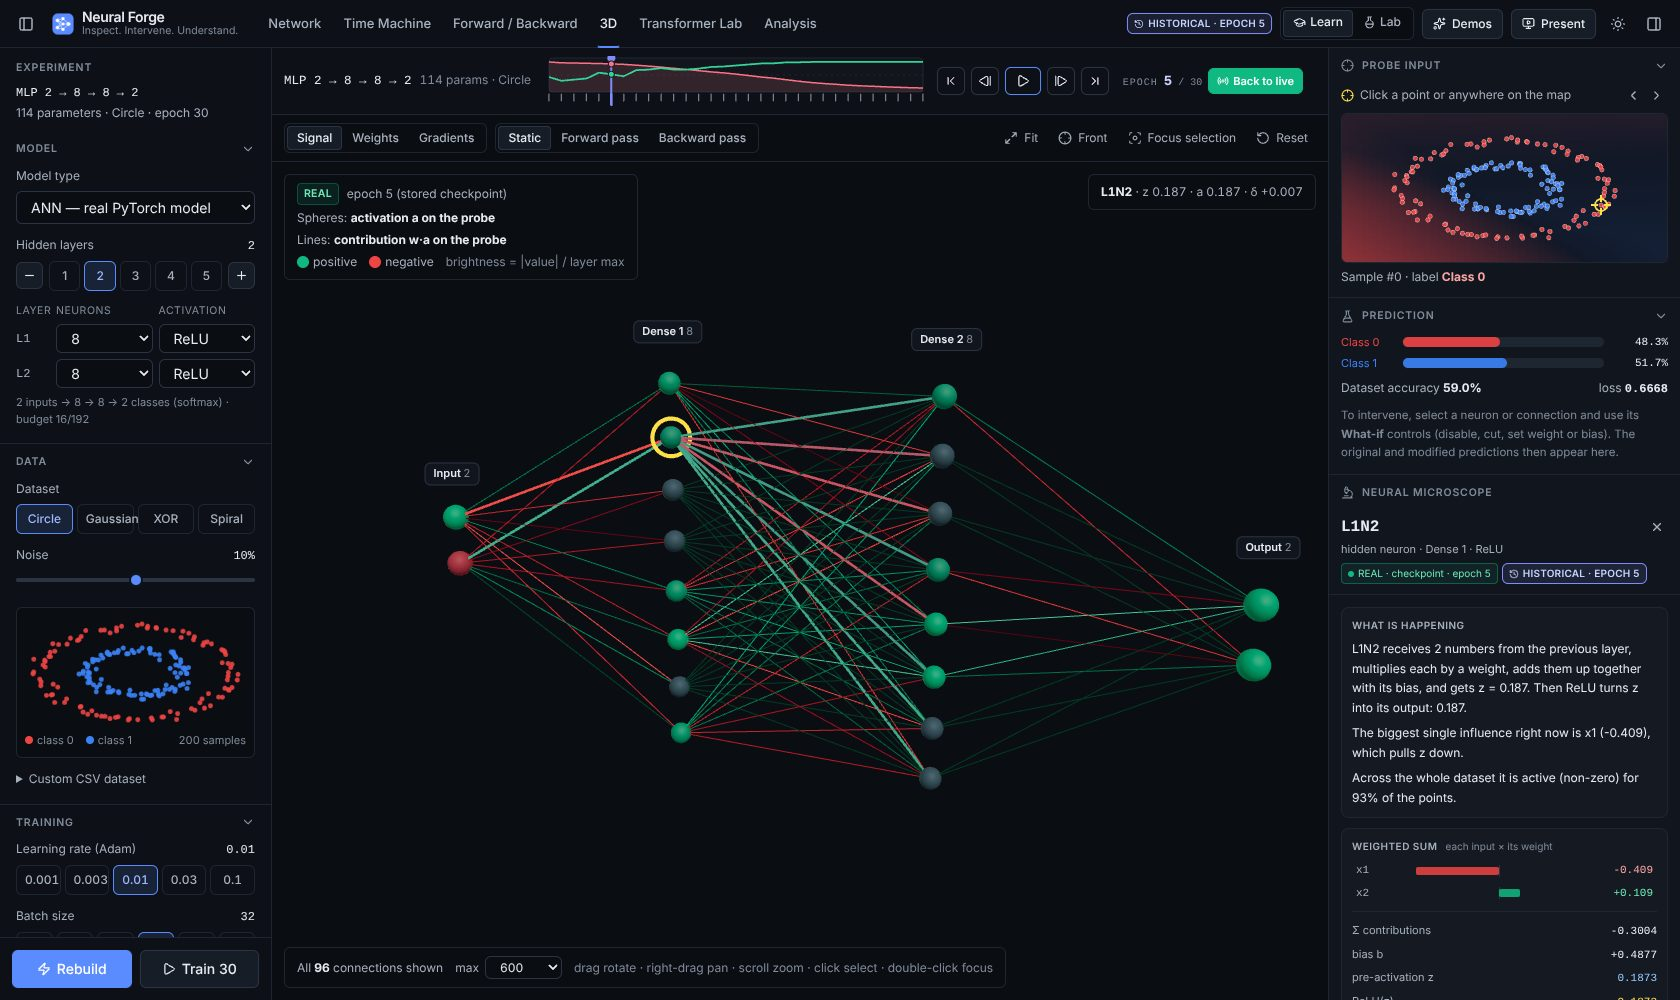
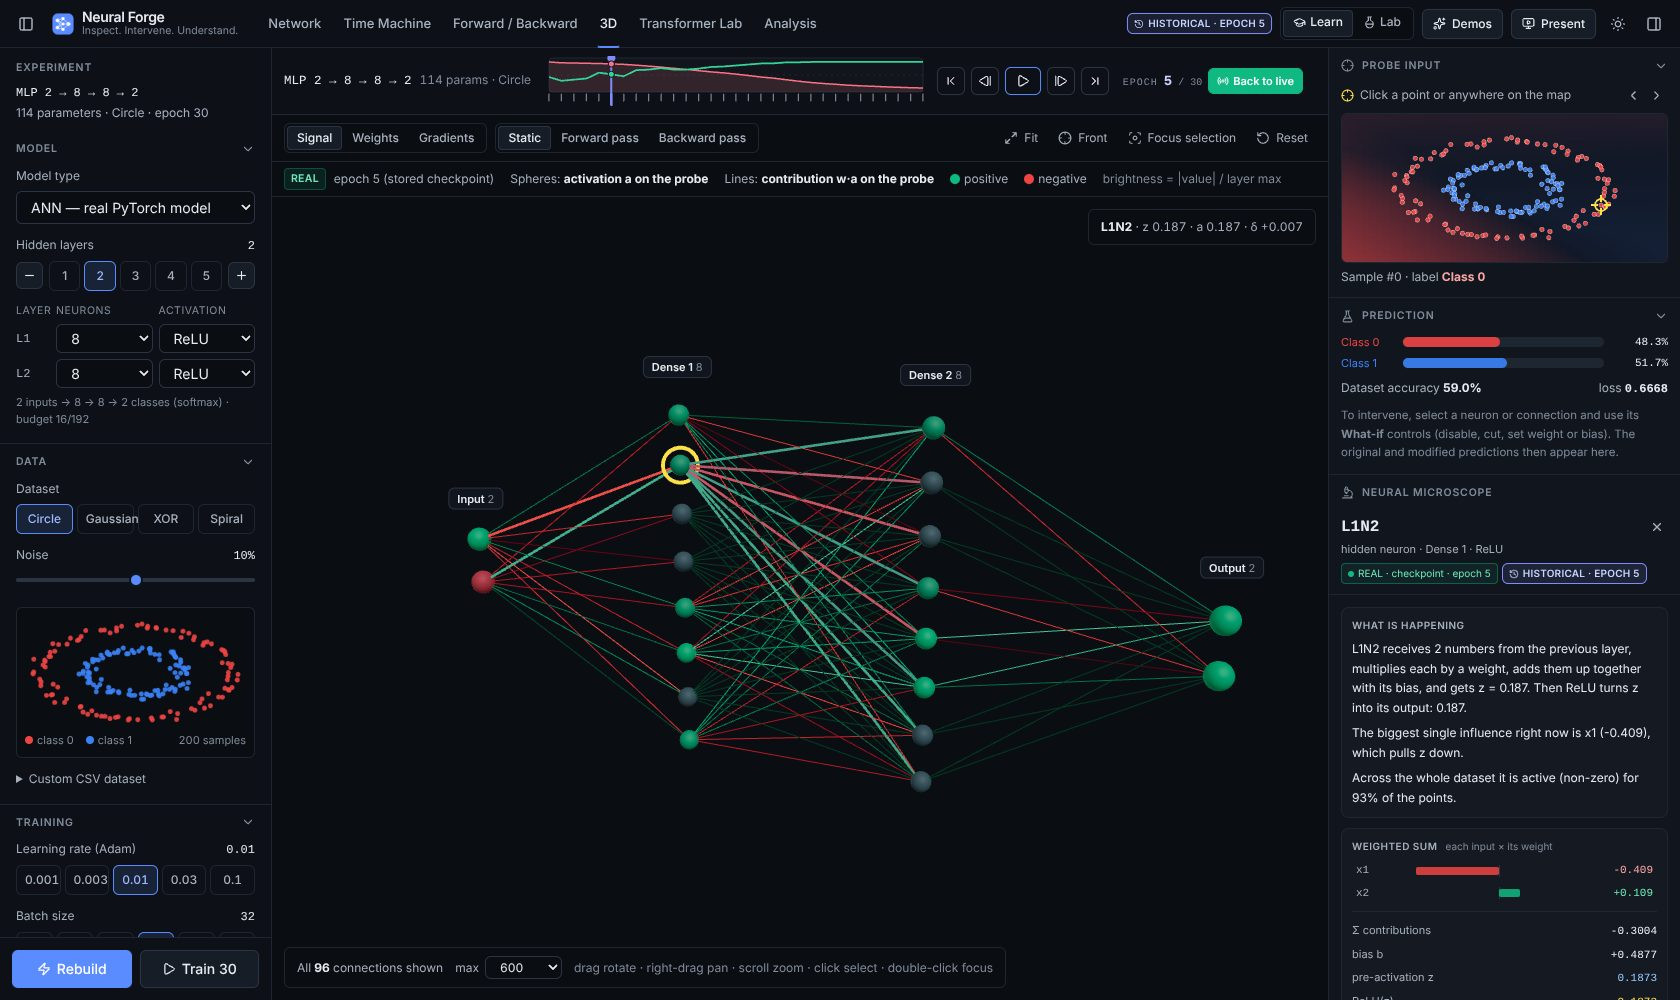
Final visual review fixes
- 3D: camera fit uses the real canvas aspect ratio (the network was clipped
  on narrow views); legend moved from an overlay into a bar so it never
  covers layer labels; refit when the view's aspect changes.
- Training curves: straight segments between logged epochs (the spline
  drew values between epochs that were never measured); theme-aware axes,
  grid and legend for the Paper theme.
- Weight histograms: drawn at the displayed size (legible labels), legend
  corrected (positive bars use the source layer's colour).
- Regenerated docs/screenshots.

Claude-Session: https://claude.ai/code/session_01F1MstGZJQBuY9L2sQxMf3S

Changed region(s): [[0.2476, 0.31, 0.7738, 0.806], [0.1548, 0.155, 0.7738, 0.279], [0.7429, 0.527, 0.7738, 0.558]]

diff --git a/frontend/src/components/Forge/ThreeD/Forge3DView.tsx b/frontend/src/components/Forge/ThreeD/Forge3DView.tsx
@@ -12,6 +12,7 @@ import {
 } from '../../../forge/scene3d';
 import { useForgeStore } from '../../../forge/store';
 import { NeedsModel } from '../../Workspaces/EmptyState';
+import { useElementSize } from '../hooks';
 import { ModelStrip } from '../../Workspaces/NetworkWorkspace';
 import { Scene, type CameraGoal, type Hover, type Palette } from './Scene';
 
@@ -68,6 +69,8 @@ export function Forge3DView() {
   const [limit, setLimit] = useState(600);
   const [pass, setPass] = useState<PassMode>('off');
   const [hover, setHover] = useState<Hover | null>(null);
+  const [viewRef, viewSize] = useElementSize<HTMLDivElement>({ w: 900, h: 600 });
+  const aspect = viewSize.w / Math.max(1, viewSize.h);
 
   const sizes = useMemo(() => session?.structure.layers.map((l) => l.size) ?? [], [session]);
   const layout = useMemo(() => layoutNetwork(sizes.length ? sizes : [1]), [sizes]);
@@ -96,24 +99,24 @@ export function Forge3DView() {
 
   // Camera goals.
   const fitGoal = useCallback((key: number): CameraGoal => {
-    const dist = fitDistance(layout.radius, FOV);
+    const dist = fitDistance(layout.radius, FOV, aspect);
     const dir = new THREE.Vector3(0.42, 0.32, 1).normalize().multiplyScalar(dist);
     const c = layout.center;
     return { position: [c[0] + dir.x, c[1] + dir.y, c[2] + dir.z], target: c, key };
-  }, [layout]);
+  }, [layout, aspect]);
   const [goal, setGoal] = useState<CameraGoal>(() => fitGoal(0));
   // A new architecture: re-fit the camera (derived state, updated during render).
-  const [fittedFor, setFittedFor] = useState(layout);
-  if (fittedFor !== layout) {
-    setFittedFor(layout);
+  const [fittedFor, setFittedFor] = useState({ layout, aspect });
+  if (fittedFor.layout !== layout || Math.abs(fittedFor.aspect - aspect) > 0.15) {
+    setFittedFor({ layout, aspect });
     setGoal(fitGoal(goal.key + 1));
   }
 
   const focusOn = useCallback((target: Vec3, radius: number) => {
-    const dist = Math.max(4.5, fitDistance(radius, FOV) * 1.15);
+    const dist = Math.max(4.5, fitDistance(radius, FOV, aspect) * 1.15);
     const dir = new THREE.Vector3(0.55, 0.3, 1).normalize().multiplyScalar(dist);
     setGoal((g) => ({ position: [target[0] + dir.x, target[1] + dir.y, target[2] + dir.z], target, key: g.key + 1 }));
-  }, []);
+  }, [aspect]);
   const focusLayer = useCallback((g: number) => {
     const e = layout.extents[g];
     focusOn([layout.layerX[g], layout.center[1], layout.center[2]], Math.max(1.5, Math.hypot(e.y, e.z) + 0.8));
@@ -129,7 +132,7 @@ export function Forge3DView() {
     }
   }, [selection, layout, focusOn, focusLayer]);
   const frontView = () => {
-    const dist = fitDistance(layout.radius, FOV);
+    const dist = fitDistance(layout.radius, FOV, aspect);
     setGoal((g) => ({ position: [layout.center[0], layout.center[1], layout.center[2] + dist], target: layout.center, key: g.key + 1 }));
   };
 
@@ -195,7 +198,20 @@ export function Forge3DView() {
         </div>
       </div>
 
-      <div className="flex-1 min-h-0 relative" data-testid="forge-3d">
+      <div className="flex items-center gap-x-4 gap-y-1 flex-wrap px-3 py-1.5 border-b text-[12px] flex-shrink-0" style={{ borderColor: 'var(--border)', color: 'var(--text-muted)' }} data-testid="3d-legend">
+        <span className="flex items-center gap-2">
+          <span className="badge-green">REAL</span>
+          <span>epoch {trace?.provenance.checkpoint_epoch ?? '…'}{trace && !trace.provenance.is_latest ? ' (stored checkpoint)' : ' (live)'}{nIv ? ` · what-if ×${nIv}` : ''}</span>
+        </span>
+        <span>Spheres: <b style={{ color: 'var(--text-primary)' }}>{info.node}</b></span>
+        <span>Lines: <b style={{ color: 'var(--text-primary)' }}>{info.edge}</b></span>
+        <span className="flex items-center gap-1"><span className="inline-block w-2.5 h-2.5 rounded-full" style={{ background: 'var(--pos)' }} />positive</span>
+        <span className="flex items-center gap-1"><span className="inline-block w-2.5 h-2.5 rounded-full" style={{ background: 'var(--neg)' }} />negative</span>
+        <span style={{ color: 'var(--text-faint)' }}>brightness = |value| / layer max</span>
+        {ablated.size > 0 && <span style={{ color: 'var(--text-warn)' }}>orange ring = disabled by what-if</span>}
+      </div>
+
+      <div className="flex-1 min-h-0 relative" data-testid="forge-3d" ref={viewRef}>
         {trace && (
           <Canvas camera={{ fov: FOV, position: goal.position, near: 0.1, far: 1000 }} dpr={[1, 2]}
             raycaster={{ params: { Line: { threshold: 0.12 } } as THREE.Raycaster['params'] }}
@@ -212,21 +228,6 @@ export function Forge3DView() {
             {hoverText}
           </div>
         )}
-
-        <div className="overlay absolute top-3 left-3 px-3 py-2 text-[12px] space-y-1 max-w-[360px]" style={{ color: 'var(--text-muted)' }}>
-          <div className="flex items-center gap-2">
-            <span className="badge-green">REAL</span>
-            <span>epoch {trace?.provenance.checkpoint_epoch ?? '…'}{trace && !trace.provenance.is_latest ? ' (stored checkpoint)' : ' (live)'}{nIv ? ` · what-if ×${nIv}` : ''}</span>
-          </div>
-          <div>Spheres: <b style={{ color: 'var(--text-primary)' }}>{info.node}</b></div>
-          <div>Lines: <b style={{ color: 'var(--text-primary)' }}>{info.edge}</b></div>
-          <div className="flex items-center gap-3">
-            <span className="flex items-center gap-1"><span className="inline-block w-3 h-3 rounded-full" style={{ background: 'var(--pos)' }} />positive</span>
-            <span className="flex items-center gap-1"><span className="inline-block w-3 h-3 rounded-full" style={{ background: 'var(--neg)' }} />negative</span>
-            <span style={{ color: 'var(--text-faint)' }}>brightness = |value| / layer max</span>
-          </div>
-          {ablated.size > 0 && <div style={{ color: 'var(--text-warn)' }}>Orange ring = neuron disabled by what-if</div>}
-        </div>
 
         <div className="overlay absolute bottom-3 left-3 px-3 py-2 text-[12px] flex items-center gap-3 flex-wrap max-w-[calc(100%-24px)]" style={{ color: 'var(--text-muted)' }} data-testid="edge-disclosure">
           <span className="tnum">

diff --git a/frontend/src/components/Visualizations/TrainingCurve.tsx b/frontend/src/components/Visualizations/TrainingCurve.tsx
@@ -1,4 +1,5 @@
 import { useEffect, useRef } from 'react';
+import { useTheme } from '../../contexts/theme';
 import { loadPlotly } from '../../lib/plotly';
 import type { TrainingResult } from '../../types';
 
@@ -8,12 +9,18 @@ interface Props {
 
 export function TrainingCurve({ data }: Props) {
   const divRef = useRef<HTMLDivElement>(null);
+  const { theme } = useTheme();
 
   useEffect(() => {
     if (!divRef.current) return;
     if (!data) return;
 
     const el = divRef.current;
+    const css = (name: string, fallback: string) => getComputedStyle(el).getPropertyValue(name).trim() || fallback;
+    const muted = css('--text-muted', '#9ca3af');
+    const grid = css('--border', '#1f2937');
+    const card = css('--bg-card', '#111827');
+    const text = css('--text-primary', '#e2e8f0');
     let cancelled = false;
     loadPlotly().then((Plotly) => {
       if (cancelled) return;
@@ -24,7 +31,7 @@ export function TrainingCurve({ data }: Props) {
         x: data.epochs,
         y: data.loss_history,
         name: 'Loss',
-        line: { color: '#ef4444', width: 2.5, shape: 'spline', smoothing: 1.2 },
+        line: { color: '#ef4444', width: 2.5, shape: 'linear' },
         marker: { color: '#ef4444', size: 6, symbol: 'circle' },
         fill: 'tozeroy',
         fillcolor: 'rgba(239,68,68,0.08)',
@@ -37,7 +44,7 @@ export function TrainingCurve({ data }: Props) {
         y: data.accuracy_history,
         name: 'Accuracy',
         yaxis: 'y2',
-        line: { color: '#10b981', width: 2.5, shape: 'spline', smoothing: 1.2 },
+        line: { color: '#10b981', width: 2.5, shape: 'linear' },
         marker: { color: '#10b981', size: 6, symbol: 'diamond' },
       };
 
@@ -46,31 +53,31 @@ export function TrainingCurve({ data }: Props) {
         plot_bgcolor: 'rgba(0,0,0,0)',
         margin: { t: 30, r: 60, b: 50, l: 50 },
         xaxis: {
-          title: { text: 'Epoch', font: { color: '#6b7280', size: 12 } },
-          tickfont: { color: '#9ca3af', size: 10 },
-          gridcolor: '#1f2937',
-          zerolinecolor: '#374151',
+          title: { text: 'Epoch', font: { color: muted, size: 12 } },
+          tickfont: { color: muted, size: 11 },
+          gridcolor: grid,
+          zerolinecolor: grid,
         },
         yaxis: {
           title: { text: 'Loss', font: { color: '#ef4444', size: 12 } },
-          tickfont: { color: '#9ca3af', size: 10 },
-          gridcolor: '#1f2937',
-          zerolinecolor: '#374151',
+          tickfont: { color: muted, size: 11 },
+          gridcolor: grid,
+          zerolinecolor: grid,
           rangemode: 'tozero',
         },
         yaxis2: {
           title: { text: 'Accuracy', font: { color: '#10b981', size: 12 } },
-          tickfont: { color: '#9ca3af', size: 10 },
+          tickfont: { color: muted, size: 11 },
           overlaying: 'y',
           side: 'right',
           range: [0, 1.05],
           showgrid: false,
         },
         legend: {
-          bgcolor: 'rgba(17,24,39,0.8)',
-          bordercolor: '#374151',
+          bgcolor: card,
+          bordercolor: grid,
           borderwidth: 1,
-          font: { color: '#d1d5db', size: 11 },
+          font: { color: text, size: 11 },
           x: 0.5,
           xanchor: 'center',
           y: 1.05,
@@ -79,9 +86,9 @@ export function TrainingCurve({ data }: Props) {
         font: { family: 'Inter, system-ui, sans-serif' },
         hovermode: 'x unified',
         hoverlabel: {
-          bgcolor: '#111827',
-          bordercolor: '#374151',
-          font: { color: '#e2e8f0', size: 12 },
+          bgcolor: card,
+          bordercolor: grid,
+          font: { color: text, size: 12 },
         },
       };
 
@@ -91,7 +98,7 @@ export function TrainingCurve({ data }: Props) {
       });
     });
     return () => { cancelled = true; };
-  }, [data]);
+  }, [data, theme]);
 
   if (!data) {
     return (

diff --git a/frontend/src/components/Visualizations/WeightHistogram.tsx b/frontend/src/components/Visualizations/WeightHistogram.tsx
@@ -45,8 +45,14 @@ export function WeightHistogram({ graph }: Props) {
     const canvas = canvasRef.current;
     if (!canvas || !byLayer.length) return;
     const ctx = canvas.getContext('2d')!;
-    const W = canvas.width, H = canvas.height;
+    // Draw at the displayed size (crisp text at any width; device-pixel aware).
+    const dpr = window.devicePixelRatio || 1;
+    const W = Math.max(300, canvas.clientWidth), H = Math.max(200, canvas.clientHeight);
+    canvas.width = W * dpr;
+    canvas.height = H * dpr;
+    ctx.setTransform(dpr, 0, 0, dpr, 0, 0);
     ctx.clearRect(0, 0, W, H);
+    const muted = getComputedStyle(canvas).getPropertyValue('--text-muted').trim() || '#9ca3af';
 
     const rows = byLayer.length;
     const rowH = H / rows;
@@ -63,7 +69,7 @@ export function WeightHistogram({ graph }: Props) {
 
       // Row label
       ctx.fillStyle = color;
-      ctx.font = 'bold 9px Inter, sans-serif';
+      ctx.font = '600 12px Inter, sans-serif';
       ctx.textAlign = 'right';
       ctx.textBaseline = 'middle';
       ctx.fillText(`L${ri}`, pad.left - 4, y0 + pad.top + plotH / 2);
@@ -102,8 +108,8 @@ export function WeightHistogram({ graph }: Props) {
       ctx.setLineDash([]);
 
       // Stats
-      ctx.fillStyle = 'rgba(156,163,175,0.8)';
-      ctx.font = '8px Inter, sans-serif';
+      ctx.fillStyle = muted;
+      ctx.font = '11px Inter, sans-serif';
       ctx.textAlign = 'left';
       ctx.textBaseline = 'top';
       ctx.fillText(`n=${weights.length}  μ=${mean.toFixed(3)}`, pad.left + 2, y0 + pad.top + 1);
@@ -119,12 +125,12 @@ export function WeightHistogram({ graph }: Props) {
 
     // Legend
     ctx.fillStyle = 'rgba(250,204,21,0.9)';
-    ctx.font = '9px Inter';
+    ctx.font = '11px Inter';
     ctx.textAlign = 'left';
     ctx.fillText('— mean', W - 58, 4);
     ctx.fillStyle = '#ef4444bb';
     ctx.fillRect(W - 58, 14, 8, 8);
-    ctx.fillStyle = 'rgba(156,163,175,0.7)';
+    ctx.fillStyle = muted;
     ctx.fillText('neg wts', W - 48, 14);
   }, [byLayer]);
 
@@ -145,10 +151,10 @@ export function WeightHistogram({ graph }: Props) {
         <span className="badge-blue text-xs">per layer</span>
       </div>
       <div className="flex-1 rounded-xl overflow-hidden border" style={{ borderColor: 'var(--border)' }}>
-        <canvas ref={canvasRef} className="w-full h-full" width={900} height={600} />
+        <canvas ref={canvasRef} className="w-full h-full" role="img" aria-label="Weight histograms, one row per layer" />
       </div>
       <p className="text-xs text-center" style={{ color: 'var(--text-faint)' }}>
-        Yellow dashed = mean · Red bars = negative weights · Green = positive
+        Yellow dashed = mean · red bars = negative weights · positive weights use the colour of the source layer · rows = source layer
       </p>
     </div>
   );

diff --git a/frontend/src/forge/scene3d.ts b/frontend/src/forge/scene3d.ts
@@ -131,5 +131,5 @@ export function strongestInto(edges: Edge3D[], layer: number, n: number): number
 export function fitDistance(radius: number, fovDeg: number, aspect = 1.6): number {
   const vf = (fovDeg * Math.PI) / 360;
   const hf = Math.atan(Math.tan(vf) * aspect);
-  return (radius / Math.sin(Math.min(vf, hf))) * 0.8;
+  return (radius / Math.sin(Math.min(vf, hf))) * 0.95;
 }
